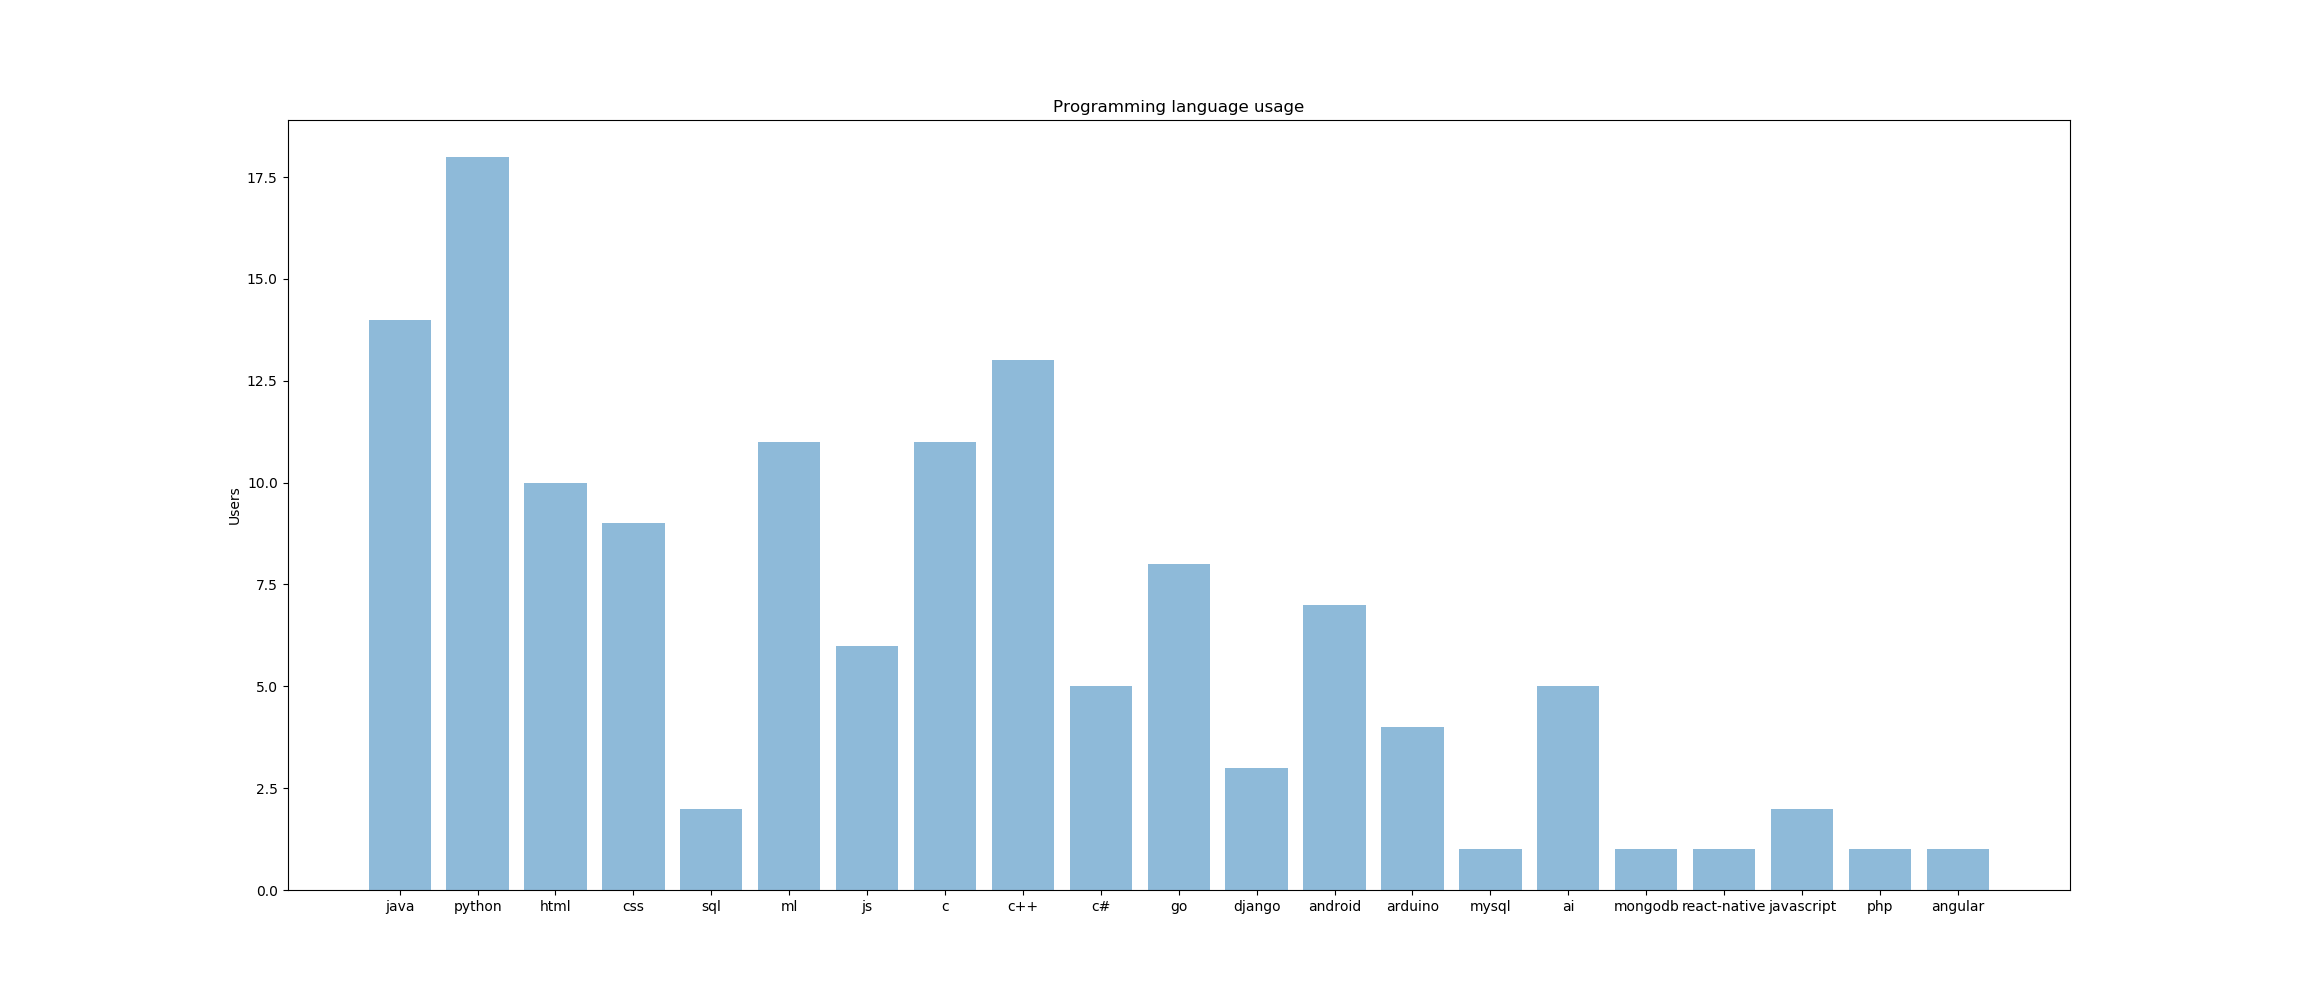
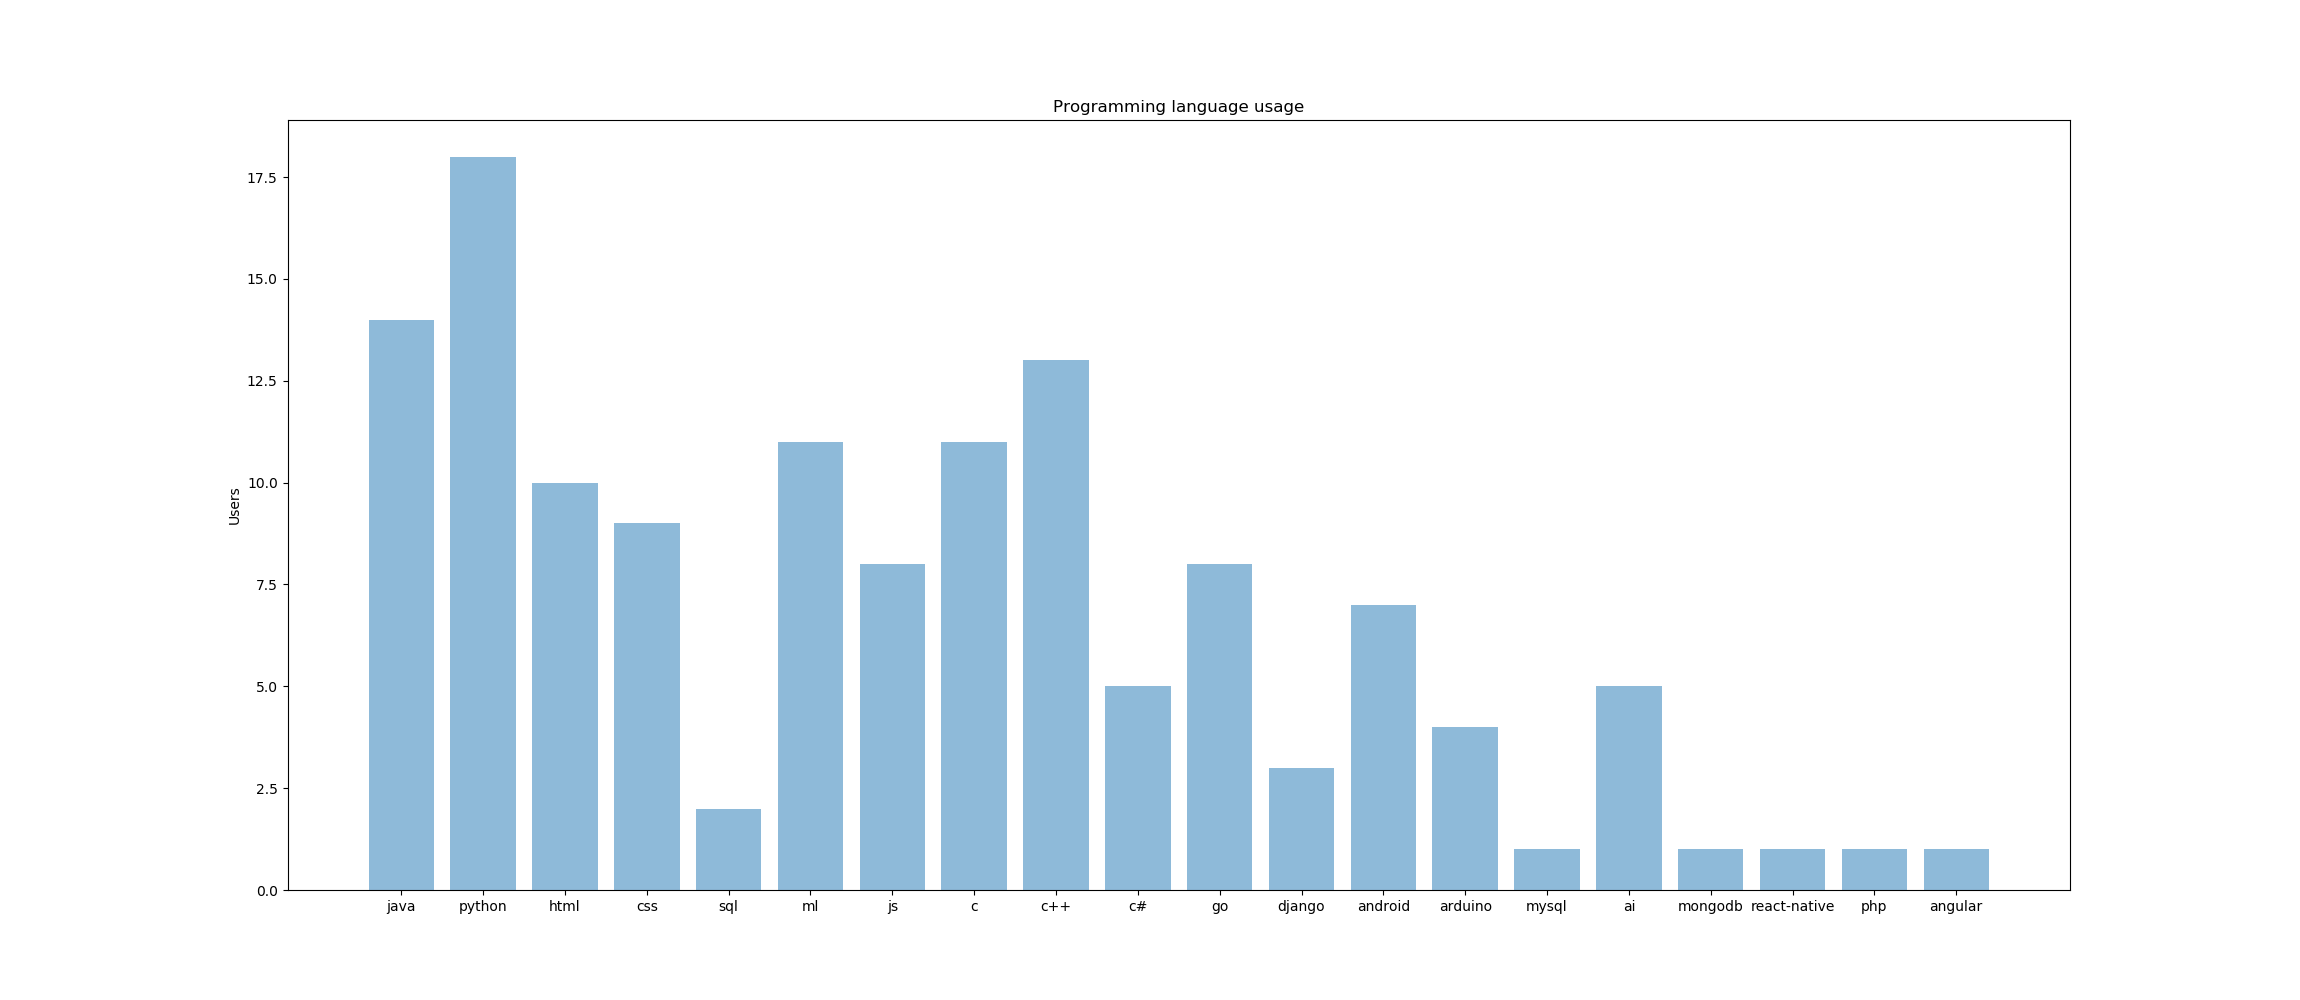
yay tings are working

Changed region(s): [[0.2161, 0.341, 0.8643, 0.93], [0.1852, 0.899, 0.2161, 0.93]]

diff --git a/match making.py b/match making.py
@@ -1,0 +1,93 @@
+# -*- coding: utf-8 -*-
+"""
+Created on Sun Jun 23 03:33:00 2019
+
+@author: gilld
+"""
+import operator
+import languages
+def match_maker():
+    data_all=languages.extract_languages()
+    # i have a list of people
+    my_data=["python","C","js","arduino","C++"]
+    match_scores={}
+    user_stats={}
+    back=languages.backend_languages
+    front=languages.frontend_languages
+    front_count=0
+    back_count=0
+    length=len(my_data)
+    
+    data={}
+    for k,v in data_all.items():
+        if len(v)>0:
+            #print("THis has an item!!");
+            data[k]= v
+
+
+
+    for x in my_data:
+        x=x.lower()
+        if x in front:
+            front_count+=1
+        elif x in back:
+            back_count+=1
+        else:
+             print("please map "+x)
+    my_front_percent=front_count /length*100
+    my_back_percent=back_count /length*100
+    
+    for k,v in data.items():
+        front_count=0
+        back_count=0
+        for x in v:
+            if x in front:
+                front_count+=1
+            elif x in back:
+                back_count+=1
+            else:
+                 print("please map "+x)
+        
+        front_percent=front_count /len(v)*100
+        back_percent=back_count /len(v)*100 
+        user_stats[k]=[front_percent,back_percent]
+        
+        
+        
+    for k,v in data.items(): 
+        user=user_stats[k]
+        for percent_match in range(100,0,-1): 
+            if my_front_percent+user[0]>=percent_match and my_back_percent+user[1]>=percent_match:
+                user_stats[k].append(percent_match)
+                break
+        gap=100-percent_match
+        gap50=gap*.5
+        score_per=gap50/length
+        for language in v:
+            if language in my_data:
+                #lanaguage similarities can cover 50% of the gap
+                user[2]+=score_per
+        match_scores[k]=user[2]
+    
+    sorted_scores = sorted(match_scores.items(), key=operator.itemgetter(1))
+    
+    
+    first=sorted_scores[-1]
+    second=sorted_scores[-2]
+    third=sorted_scores[-3]
+    
+    best_match=[first,second,third]
+    
+    message=""
+    for user in best_match:
+        message+=user[0]+" is your best match with a score of "+str(user[1])
+        message+="\nTheir stats for frontend % backend % and match score respectively are "
+        for x in user_stats[user[0]]:
+            message+=str(x)+", "
+        message+="and their skills are "
+        for x in data[user[0]]:
+            message+=x+" "
+        message+="\n"
+        
+    print (message)
+    return message

diff --git a/languages.py b/languages.py
@@ -8,12 +8,12 @@ data_store = []
 user_info_raw = {}
 user_info_sorted = {}
 
-frontend_languages = ["html", "css", "javascript", "react.js", "angular", "django", "ruby", "php", "jquery"]
-backend_languages = ["c", "c++", "c#", "java", "python", "swift", "android", "react-native", "node.js", "express.js", "sql", "nosql", "mongodb"]
+frontend_languages = ["html", "css", "js", "react.js", "angular", "django", "ruby", "php", "jquery","go"]
+backend_languages = ["c", "c++", "c#", "java", "python", "swift", "android", "react-native", "node.js", "express.js", "sql", "nosql", "mongodb","arduino","mysql","objective-c","ml","ai","r","elixir"]
 
 
 
-languages = ["java", "python", "c++", "c#", " c ", "go", "html", "css", "javascript", "node.js", "react-native", "react.js", "express.js", "sql", "arduino", "mysql", "nosql", "objective-c", "swift", "android", "ml", "ai", "ruby", "js", " r ", "exlixir", "php", "mongodb", "jquery", "angular", "django"," c,",",c "," c/","/c "]
+languages = ["java", "python", "c++", "c#", " c ", "go", "html", "css", "javascript", "node.js", "react-native", "react.js", "express.js", "sql", "arduino", "mysql", "nosql", "objective-c", "swift", "android", "ml", "ai", "ruby", "js", " r ", "elixir", "php", "mongodb", "jquery", "angular", "django"," c,",",c "," c/","/c "]
 def extract_languages():
     with open("ss.json", "r") as f:
         data = json.load(f);
@@ -26,7 +26,7 @@ def extract_languages():
     for key, value in user_info_raw.items():
         print("{0} is the key: and {1} is the value" .format(key, value))
            # print(item['user'])'''
-    
+    skip=0
     for k, v in user_info_raw.items():
         user_languages = []
         for language in languages:
@@ -42,10 +42,19 @@ def extract_languages():
                     language=language.replace("/","")
                 if language.find(",")!= -1:                  
                      language=language.replace(",","")
-                      
+                     
+                     
+                #fix javasrcipt+js  as well as.js  
+                if language == "javascript":
+                    language="js"
+                if language=="js":
+                    index=v.find(language)
+                    if v[index-1]==".":
+                        skip=1 #to avoid node.js etc
                 
-                user_languages.append(language)
-    
+                if not skip:
+                    user_languages.append(language)
+                skip=0
         user_info_sorted[k] = user_languages
     
     
